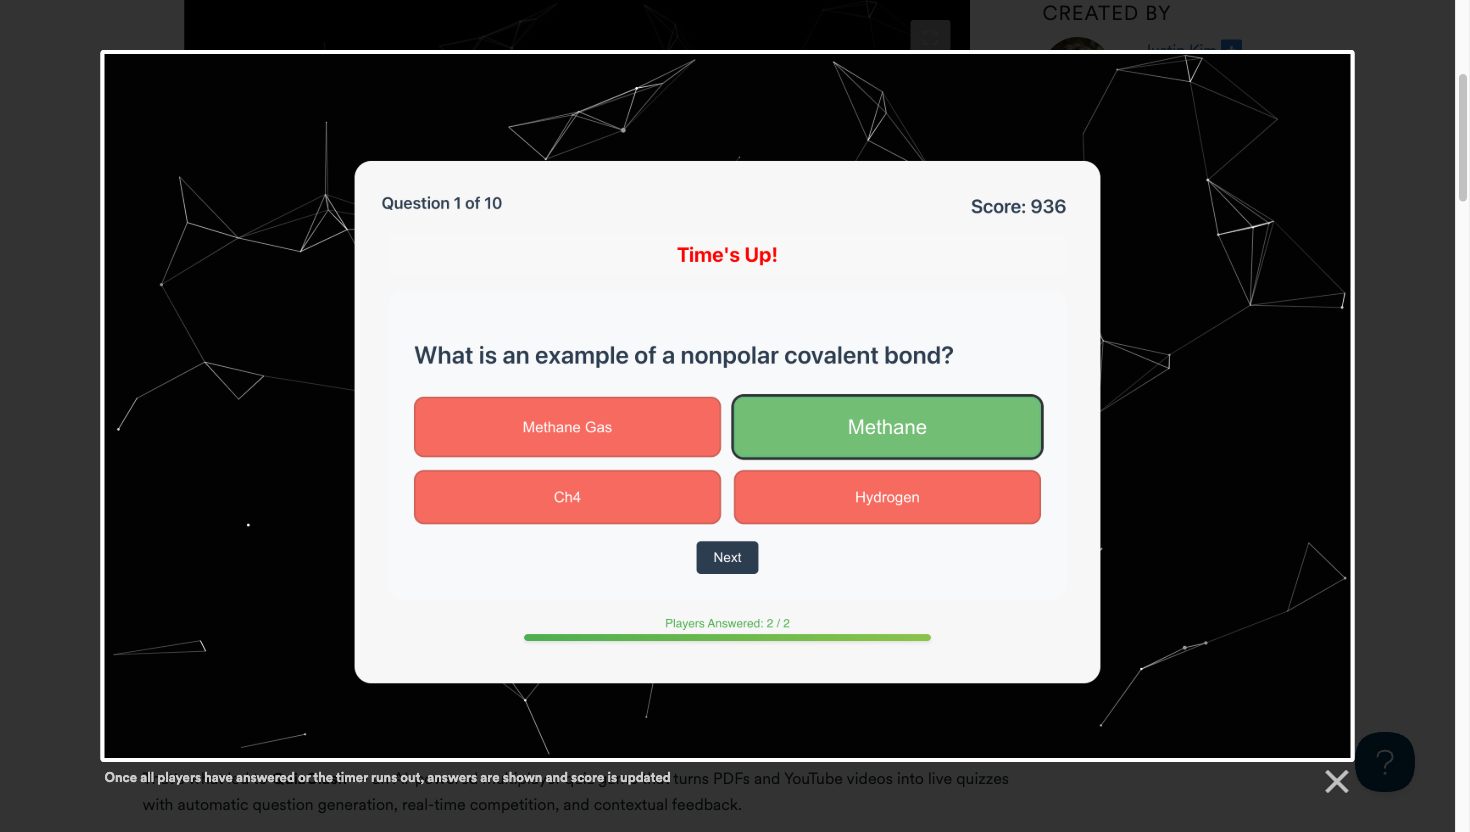
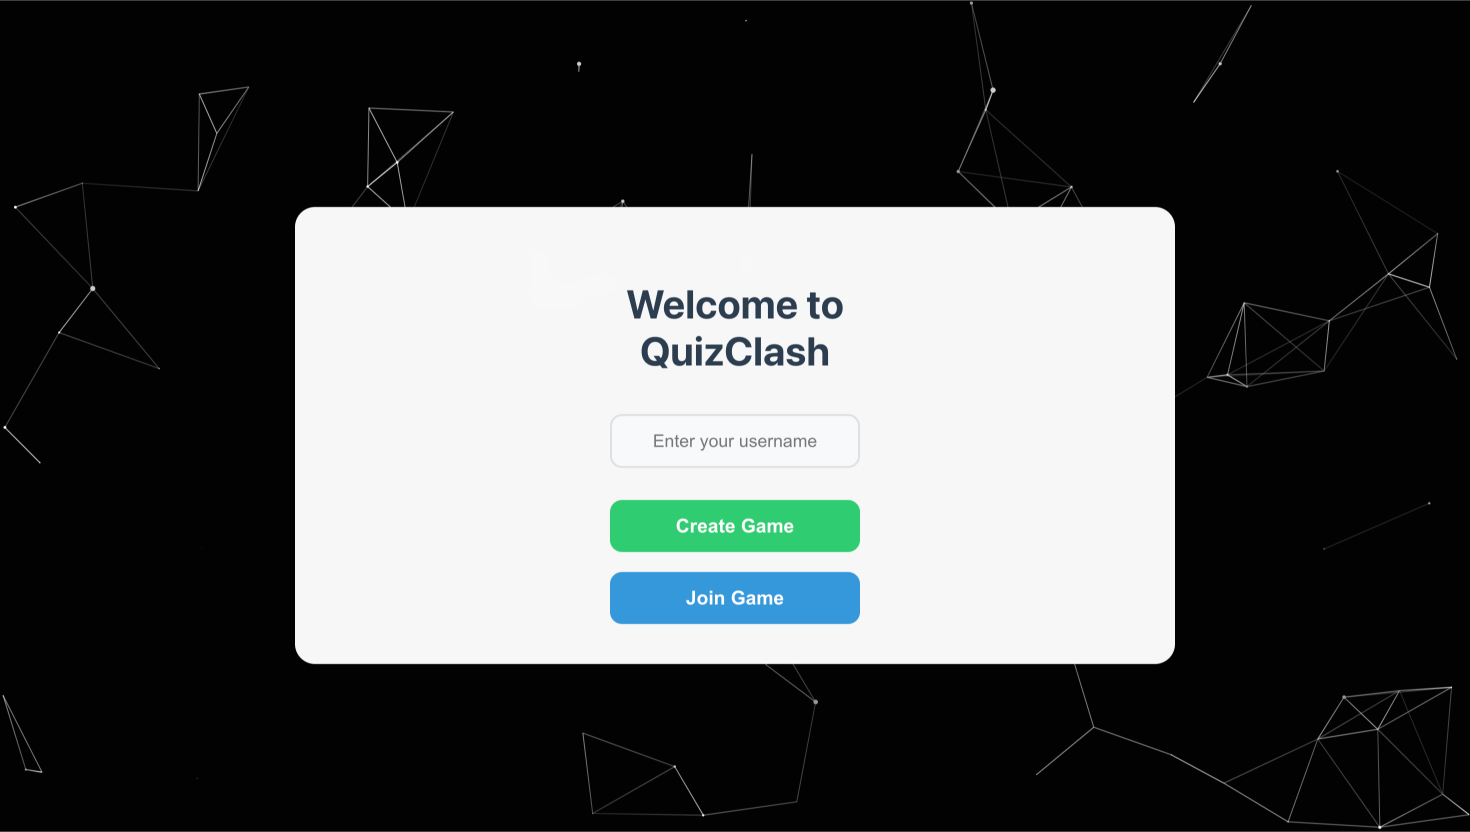
fixing more images

diff --git a/src/constants/projects.ts b/src/constants/projects.ts
@@ -15,6 +15,7 @@ export const projects: Project[] = [
       { name: "Docker", color: "#2496ed" },
     ],
     image: "/projects/madlease.png",
+    modalImage: "/projects/madlease-modal.png",
     live: "https://madlease.net",
     duration: "1+ yr",
     featured: true,
@@ -33,6 +34,7 @@ export const projects: Project[] = [
       { name: "AWS S3", color: "#ff9900" },
     ],
     image: "/projects/quizclash.png",
+    modalImage: "/projects/quizclash-modal.png",
     github: "https://github.com/JustinKim13/ml_quizmaker",
     live: "https://devpost.com/software/quizclash",
     duration: "2 mo",
@@ -50,6 +52,7 @@ export const projects: Project[] = [
       { name: "Transformers", color: "#ff9f43" },
     ],
     image: "/projects/llm.png",
+    modalImage: "/projects/llm-modal.webp",
     github: "https://github.com/JustinKim13/LLM-from-scratch",
     duration: "Ongoing",
     featured: false,
@@ -67,6 +70,7 @@ export const projects: Project[] = [
       { name: "React", color: "#61dafb" },
     ],
     image: "/projects/flixfinder.png",
+    modalImage: "/projects/flixfinder-modal.png",
     github: "https://github.com/JustinKim13/Movie-Review-Rec-App",
     live: "https://movie-review-rec-app-5dee.vercel.app",
     duration: "6 wk",
@@ -83,7 +87,8 @@ export const projects: Project[] = [
       { name: "NumPy", color: "#4dabcf" },
       { name: "PyTorch", color: "#ee4c2c" },
     ],
-    image: "/projects/core-ml.png",
+    image: "/projects/core-ml.webp",
+    modalImage: "/projects/core-ml-modal.webp",
     github: "https://github.com/JustinKim13/Core-ML-Implementations",
     duration: "10 wk",
     featured: true,

diff --git a/src/components/ui/TrackRow.tsx b/src/components/ui/TrackRow.tsx
@@ -140,9 +140,9 @@ export function TrackRow({ project, index }: TrackRowProps) {
             >
               {/* Album cover — always a top banner so landscape screenshots look great */}
               <div className="h-64 md:h-80 w-full flex-shrink-0 relative overflow-hidden">
-                {project.image ? (
+                {(project.modalImage ?? project.image) ? (
                   <Image
-                    src={project.image}
+                    src={project.modalImage ?? project.image}
                     alt={project.title}
                     fill
                     sizes="100vw"

diff --git a/src/types/portfolio.ts b/src/types/portfolio.ts
@@ -17,6 +17,7 @@ export interface Project {
   longDescription: string;
   tags: { name: string; color: string }[];
   image: string;
+  modalImage?: string;
   github?: string;
   live?: string;
   duration: string;        // "3 months" — shown as track duration
